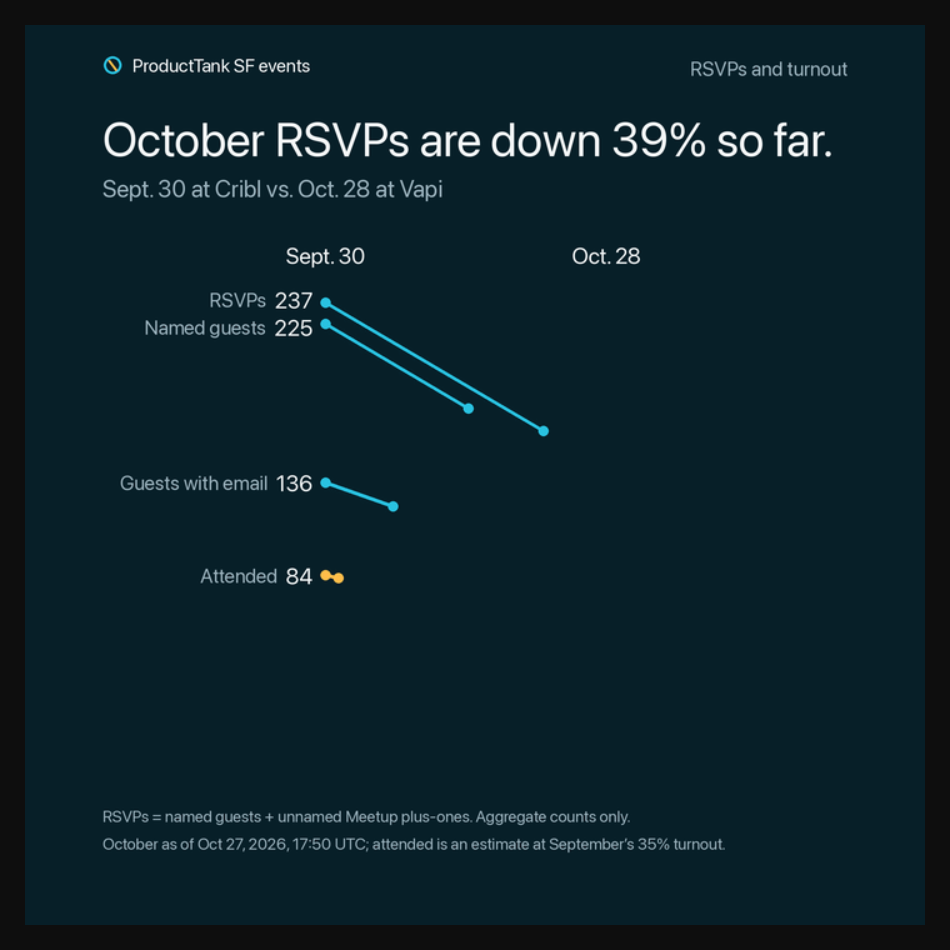
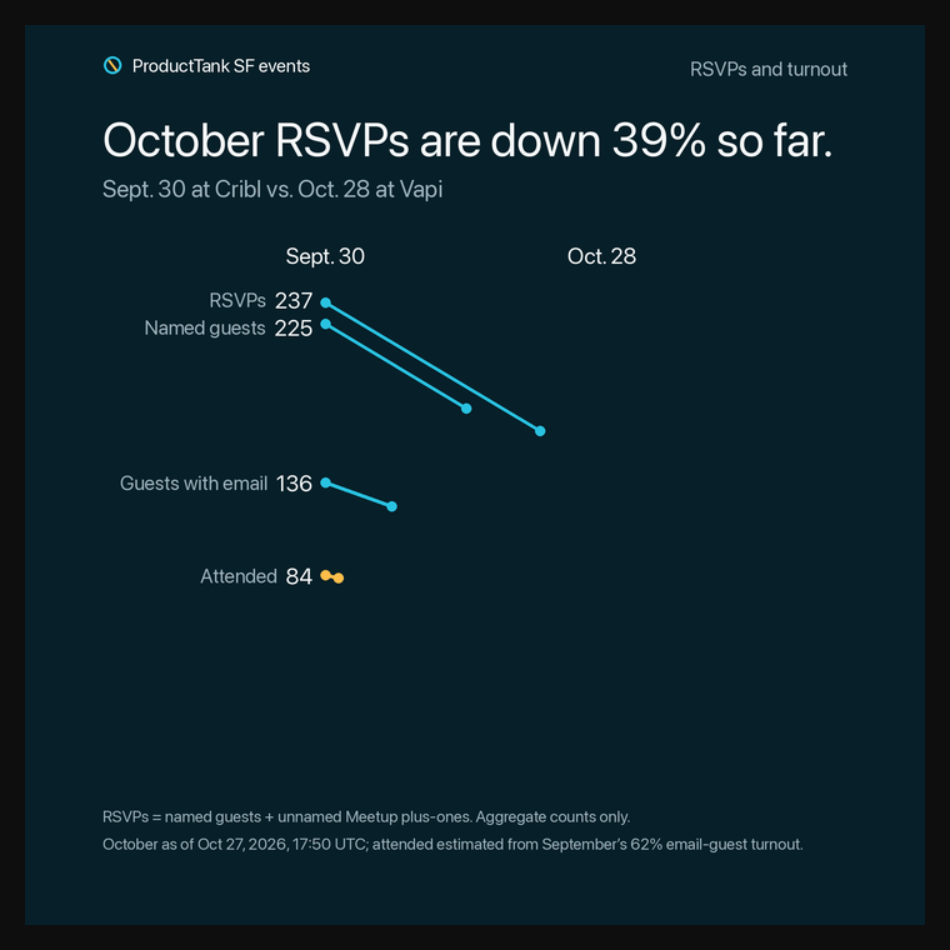
fix(rsvp-slopegraph): estimate attendance from email guests
Scale September attendance by the change in guests with email (~49). Draw the percentage-change labels smaller and fainter in the regular label font, and move each one outward until it clears every line. Refresh the GIF, report and screenshots.

diff --git a/src/rsvp-slopegraph/src/rsvp_slopegraph.py b/src/rsvp-slopegraph/src/rsvp_slopegraph.py
@@ -31,6 +31,7 @@ from traffic_animation.github_traffic_animation import (  # noqa: E402
     WIDTH,
     AnimationError,
     Fonts,
+    load_font,
     load_fonts,
 )
 
@@ -48,6 +49,11 @@ PLOT_BOTTOM = 560
 LABEL_GAP = 22
 DASH = 9
 DASH_SPACE = 7
+# Percentage-change labels: a size below the 16 px names, faded past the muted name color.
+CHANGE_LABEL_STATS = ("RSVPs", "Guests with email")
+CHANGE_FONT_SIZE = 15
+CHANGE_FADE = 0.7
+CHANGE_CLEARANCE = 5
 
 
 class Stat(NamedTuple):
@@ -65,19 +71,28 @@ class Placed(NamedTuple):
     right_label_y: float
 
 
+class ChangeLabel(NamedTuple):
+    index: int
+    text: str
+    x: float
+    y: float
+
+
 class Layout(NamedTuple):
     x_left: float
     x_right: float
     placed: list[Placed]
+    changes: list[ChangeLabel]
+    change_font: Any
 
 
 def rsvps(event: dict[str, Any]) -> int:
     return event["named_guests"] + event["unnamed_plus_ones"]
 
 
-def turnout_rate(september: dict[str, Any]) -> float:
-    """September turnout as an unrounded ratio."""
-    return september["attended"] / rsvps(september)
+def email_turnout_rate(september: dict[str, Any]) -> float:
+    """September attendees per guest with email, as an unrounded ratio."""
+    return september["attended"] / september["guests_with_email"]
 
 
 def load_stats(path: Path) -> dict[str, Any]:
@@ -100,7 +115,7 @@ def load_stats(path: Path) -> dict[str, Any]:
 
 def build_stats(data: dict[str, Any]) -> list[Stat]:
     september, october = data["september"], data["october"]
-    estimate = round(rsvps(october) * turnout_rate(september))
+    estimate = round(october["guests_with_email"] * email_turnout_rate(september))
     return [
         Stat("RSVPs", rsvps(september), rsvps(october), False),
         Stat("Named guests", september["named_guests"], october["named_guests"], False),
@@ -185,6 +200,52 @@ def headline(stats: Sequence[Stat]) -> str:
     return f"October RSVPs are {'down' if change < 0 else 'up'} {abs(change)}% so far."
 
 
+def change_text(stat: Stat) -> str:
+    change = round((stat.october - stat.september) / stat.september * 100)
+    return f"{change:+d}%".replace("-", "−")
+
+
+def segment_hits_box(start: tuple[float, float], end: tuple[float, float], box: Sequence[float]) -> bool:
+    """True when any point of the segment falls inside the box; samples every pixel of length."""
+    steps = max(1, math.ceil(math.dist(start, end)))
+    for step in range(steps + 1):
+        x = start[0] + (end[0] - start[0]) * step / steps
+        y = start[1] + (end[1] - start[1]) * step / steps
+        if box[0] <= x <= box[2] and box[1] <= y <= box[3]:
+            return True
+    return False
+
+
+def place_change_labels(
+    stats: Sequence[Stat], segments: Sequence[tuple[tuple[float, float], tuple[float, float]]], font: Any, draw: ImageDraw.ImageDraw,
+) -> list[ChangeLabel]:
+    """Put each change label above its line's midpoint, moving out until it clears every line."""
+    scale = RENDER_SCALE
+    clearance = CHANGE_CLEARANCE * scale
+    labels = []
+    for index, stat in enumerate(stats):
+        if stat.name not in CHANGE_LABEL_STATS:
+            continue
+        text = change_text(stat)
+        (x0, y0), (x1, y1) = segments[index]
+        length = math.dist((x0, y0), (x1, y1))
+        # Unit normal on the upper side of the line.
+        normal_x, normal_y = (y1 - y0) / length, -(x1 - x0) / length
+        if normal_y > 0:
+            normal_x, normal_y = -normal_x, -normal_y
+        middle_x, middle_y = (x0 + x1) / 2, (y0 + y1) / 2
+        for offset in range(0, 200 * scale, scale):
+            x, y = middle_x + normal_x * offset, middle_y + normal_y * offset
+            left, top, right, bottom = draw.textbbox((x, y), text, font=font, anchor="mm")
+            box = (left - clearance, top - clearance, right + clearance, bottom + clearance)
+            if not any(segment_hits_box(start, end, box) for start, end in segments):
+                labels.append(ChangeLabel(index, text, x, y))
+                break
+        else:
+            raise ValueError(f"No room for the {stat.name} change label")
+    return labels
+
+
 def plan_layout(stats: Sequence[Stat], fonts: Fonts, draw: ImageDraw.ImageDraw) -> Layout:
     scale = RENDER_SCALE
     left_width = max(
@@ -212,7 +273,10 @@ def plan_layout(stats: Sequence[Stat], fonts: Fonts, draw: ImageDraw.ImageDraw) 
     left_labels = spread_labels(left_y, LABEL_GAP * scale, *bounds)
     right_labels = spread_labels(right_y, LABEL_GAP * scale, *bounds)
     placed = [Placed(stat, left_y[i], right_y[i], left_labels[i], right_labels[i]) for i, stat in enumerate(stats)]
-    return Layout(x_left, x_right, placed)
+    segments = [((x_left, left_y[i]), (x_right, right_y[i])) for i in range(len(stats))]
+    change_font = load_font(CHANGE_FONT_SIZE)
+    changes = place_change_labels(stats, segments, change_font, draw)
+    return Layout(x_left, x_right, placed, changes, change_font)
 
 
 def draw_label(
@@ -291,17 +355,14 @@ def render_frame(data: dict[str, Any], stats: Sequence[Stat], layout: Layout, ov
                 value=right_value(stat), name=right_name(stat),
                 value_color=fade(TEXT, reveal), name_color=fade(MUTED, reveal), fonts=fonts,
             )
-            if stat.name in ("RSVPs", "Guests with email"):
-                change = round((stat.october - stat.september) / stat.september * 100)
+        for label in layout.changes:
+            if label.index == index:
                 draw.text(
-                    ((layout.x_left + layout.x_right) / 2, (item.left_y + item.right_y) / 2 - 16 * scale),
-                    f"{change:+d}%".replace("-", "−"),
-                    fill=fade(TEXT, reveal),
-                    font=fonts.label,
-                    anchor="mm",
+                    (label.x, label.y), label.text,
+                    fill=fade(MUTED, CHANGE_FADE * reveal), font=layout.change_font, anchor="mm",
                 )
 
-    rate = round(turnout_rate(september) * 100)
+    rate = round(email_turnout_rate(september) * 100)
     draw.text(
         (62 * scale, 625 * scale),
         "RSVPs = named guests + unnamed Meetup plus-ones. Aggregate counts only.",
@@ -310,7 +371,7 @@ def render_frame(data: dict[str, Any], stats: Sequence[Stat], layout: Layout, ov
     )
     draw.text(
         (62 * scale, 647 * scale),
-        f"October as of {format_as_of(october['as_of'])}; attended is an estimate at September’s {rate}% turnout.",
+        f"October as of {format_as_of(october['as_of'])}; attended estimated from September’s {rate}% email-guest turnout.",
         fill=MUTED,
         font=fonts.note,
     )
@@ -363,7 +424,7 @@ def render_slopegraph_gif(data: dict[str, Any]) -> bytes:
 def render_report(data: dict[str, Any], gif_name: str) -> str:
     stats = build_stats(data)
     september, october = data["september"], data["october"]
-    rate = round(turnout_rate(september) * 100)
+    rate = round(email_turnout_rate(september) * 100)
     rows = "\n".join(
         f"| {stat.name} | {stat.september:,} | {right_value(stat)}{' (estimate)' if stat.estimate else ''} |"
         for stat in stats
@@ -380,7 +441,7 @@ def render_report(data: dict[str, Any], gif_name: str) -> str:
 
 - RSVPs are named guests plus unnamed Meetup plus-ones.
 - September attended is the door head count.
-- October as of {format_as_of(october['as_of'])}; attended is an estimate at September’s {rate}% turnout.
+- October as of {format_as_of(october['as_of'])}; attended estimated from September’s {rate}% email-guest turnout.
 - Aggregate counts only. No guest names or emails are stored in this repository.
 
 To refresh, edit [`stats.json`](stats.json), then run `./src/rsvp-slopegraph/src/rsvp_slopegraph.py` from the repository root.

diff --git a/src/rsvp-slopegraph/tests/test_rsvp_slopegraph.py b/src/rsvp-slopegraph/tests/test_rsvp_slopegraph.py
@@ -10,7 +10,8 @@ PROJECT_ROOT = Path(__file__).resolve().parents[1]
 sys.path.insert(0, str(PROJECT_ROOT))
 
 from src.rsvp_slopegraph import (
-    build_stats, load_fonts, load_stats, plan_layout, right_name, right_value, spread_labels,
+    RENDER_SCALE, build_stats, load_fonts, load_stats, plan_layout, right_name, right_value, segment_hits_box,
+    spread_labels,
 )
 
 
@@ -62,12 +63,26 @@ class SpreadLabelsTest(unittest.TestCase):
             for above, below in zip(boxes, boxes[1:]):
                 self.assertLessEqual(above[1], below[0])
 
+    def test_change_labels_clear_every_line(self):
+        draw = ImageDraw.Draw(Image.new("RGB", (1, 1)))
+        layout = plan_layout(build_stats(sample_data()), load_fonts(), draw)
+        self.assertEqual([label.text for label in layout.changes], ["−39%", "−41%"])
+        segments = [((layout.x_left, item.left_y), (layout.x_right, item.right_y)) for item in layout.placed]
+        for label in layout.changes:
+            left, top, right, bottom = draw.textbbox((label.x, label.y), label.text, font=layout.change_font, anchor="mm")
+            # Lines are 3 px wide, so the drawn stroke must stay outside the box grown by half its width.
+            pad = 1.5 * RENDER_SCALE
+            box = (left - pad, top - pad, right + pad, bottom + pad)
+            for start, end in segments:
+                self.assertFalse(segment_hits_box(start, end, box), label.text)
+
 
 class StatsTest(unittest.TestCase):
-    def test_rsvps_add_plus_ones_and_attendance_uses_september_turnout(self):
+    def test_rsvps_add_plus_ones_and_attendance_scales_by_email_guests(self):
         stats = {stat.name: stat for stat in build_stats(sample_data())}
         self.assertEqual((stats["RSVPs"].september, stats["RSVPs"].october), (237, 144))
-        self.assertEqual(stats["Attended"].october, 51)
+        # 80 email guests × (84 attended / 136 email guests) = 49.4.
+        self.assertEqual(stats["Attended"].october, 49)
         self.assertTrue(stats["Attended"].estimate)
         self.assertFalse(stats["RSVPs"].estimate)
 

diff --git a/src/rsvp-slopegraph/README.md b/src/rsvp-slopegraph/README.md
@@ -15,9 +15,9 @@ All numbers live in [`docs/reports/rsvp-slopegraph/stats.json`](../../docs/repor
    ./src/rsvp-slopegraph/src/rsvp_slopegraph.py
    ```
 
-The script rewrites `slopegraph.gif` and `report.md`. It computes RSVPs as named guests plus unnamed Meetup plus-ones. It estimates October attendance from September's unrounded turnout ratio, then rounds the estimated head count; only the displayed turnout percentage is rounded to a whole percent. The headline marks October RSVPs as a running count with “so far”. Count fields must be non-negative whole numbers.
+The script rewrites `slopegraph.gif` and `report.md`. It computes RSVPs as named guests plus unnamed Meetup plus-ones. It estimates October attendance by scaling September's attendance by the change in guests with email, using the unrounded ratio, then rounds the head count: `80 × (84 / 136) ≈ 49`. Only the displayed email-guest turnout percentage is rounded to a whole percent. The headline marks October RSVPs as a running count with “so far”. Count fields must be non-negative whole numbers.
 
-The GIF plays once and holds its final frame. Percentage labels show the RSVP and email-guest changes from September: `(October − September) / September × 100`. Line slopes show absolute head-count changes, not percentage changes. The attendance estimate uses all RSVPs, not just guests with email: `144 × (84 / 237) ≈ 51`.
+The GIF plays once and holds its final frame. Smaller, faded percentage labels show the RSVP and email-guest changes from September: `(October − September) / September × 100`. Each label sits above its line and moves outward until it clears every line. Line slopes show absolute head-count changes, not percentage changes.
 
 ## Tests
 

diff --git a/docs/reports/rsvp-slopegraph/report.md b/docs/reports/rsvp-slopegraph/report.md
@@ -9,11 +9,11 @@
 | RSVPs | 237 | 144 |
 | Named guests | 225 | 132 |
 | Guests with email | 136 | 80 |
-| Attended | 84 | ~51 (estimate) |
+| Attended | 84 | ~49 (estimate) |
 
 - RSVPs are named guests plus unnamed Meetup plus-ones.
 - September attended is the door head count.
-- October as of Oct 27, 2026, 17:50 UTC; attended is an estimate at September’s 35% turnout.
+- October as of Oct 27, 2026, 17:50 UTC; attended estimated from September’s 62% email-guest turnout.
 - Aggregate counts only. No guest names or emails are stored in this repository.
 
 To refresh, edit [`stats.json`](stats.json), then run `./src/rsvp-slopegraph/src/rsvp_slopegraph.py` from the repository root.
